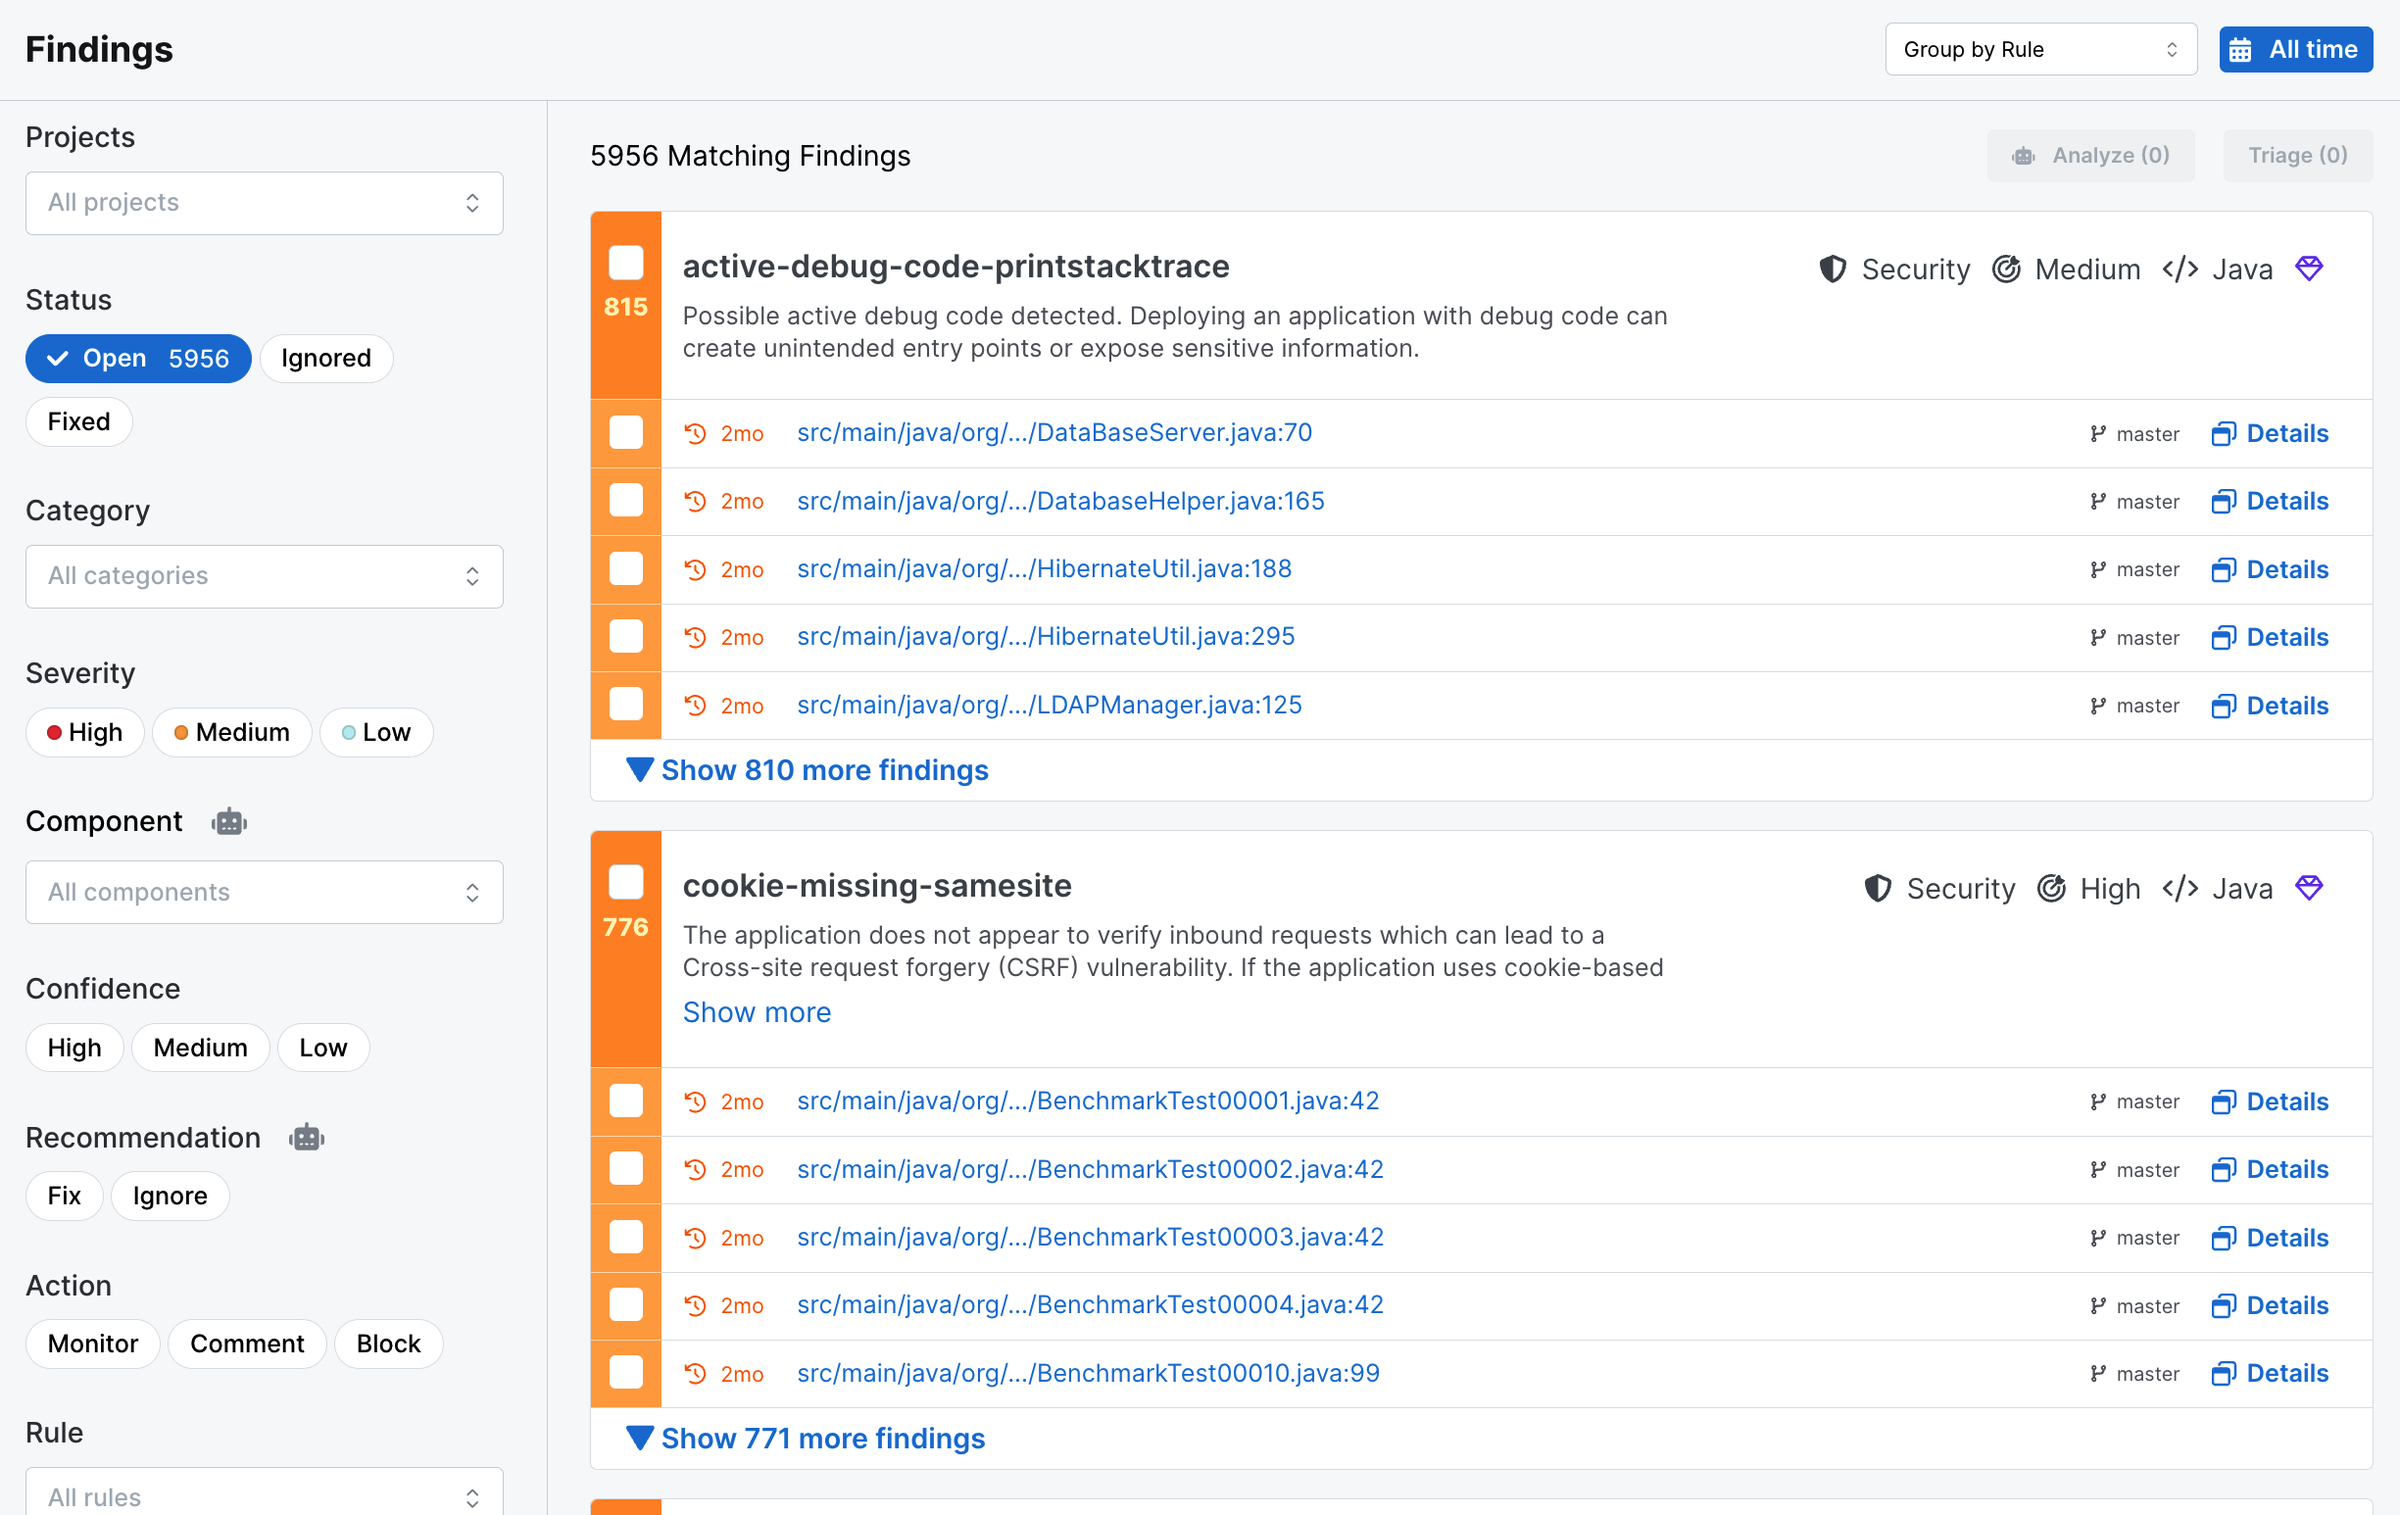
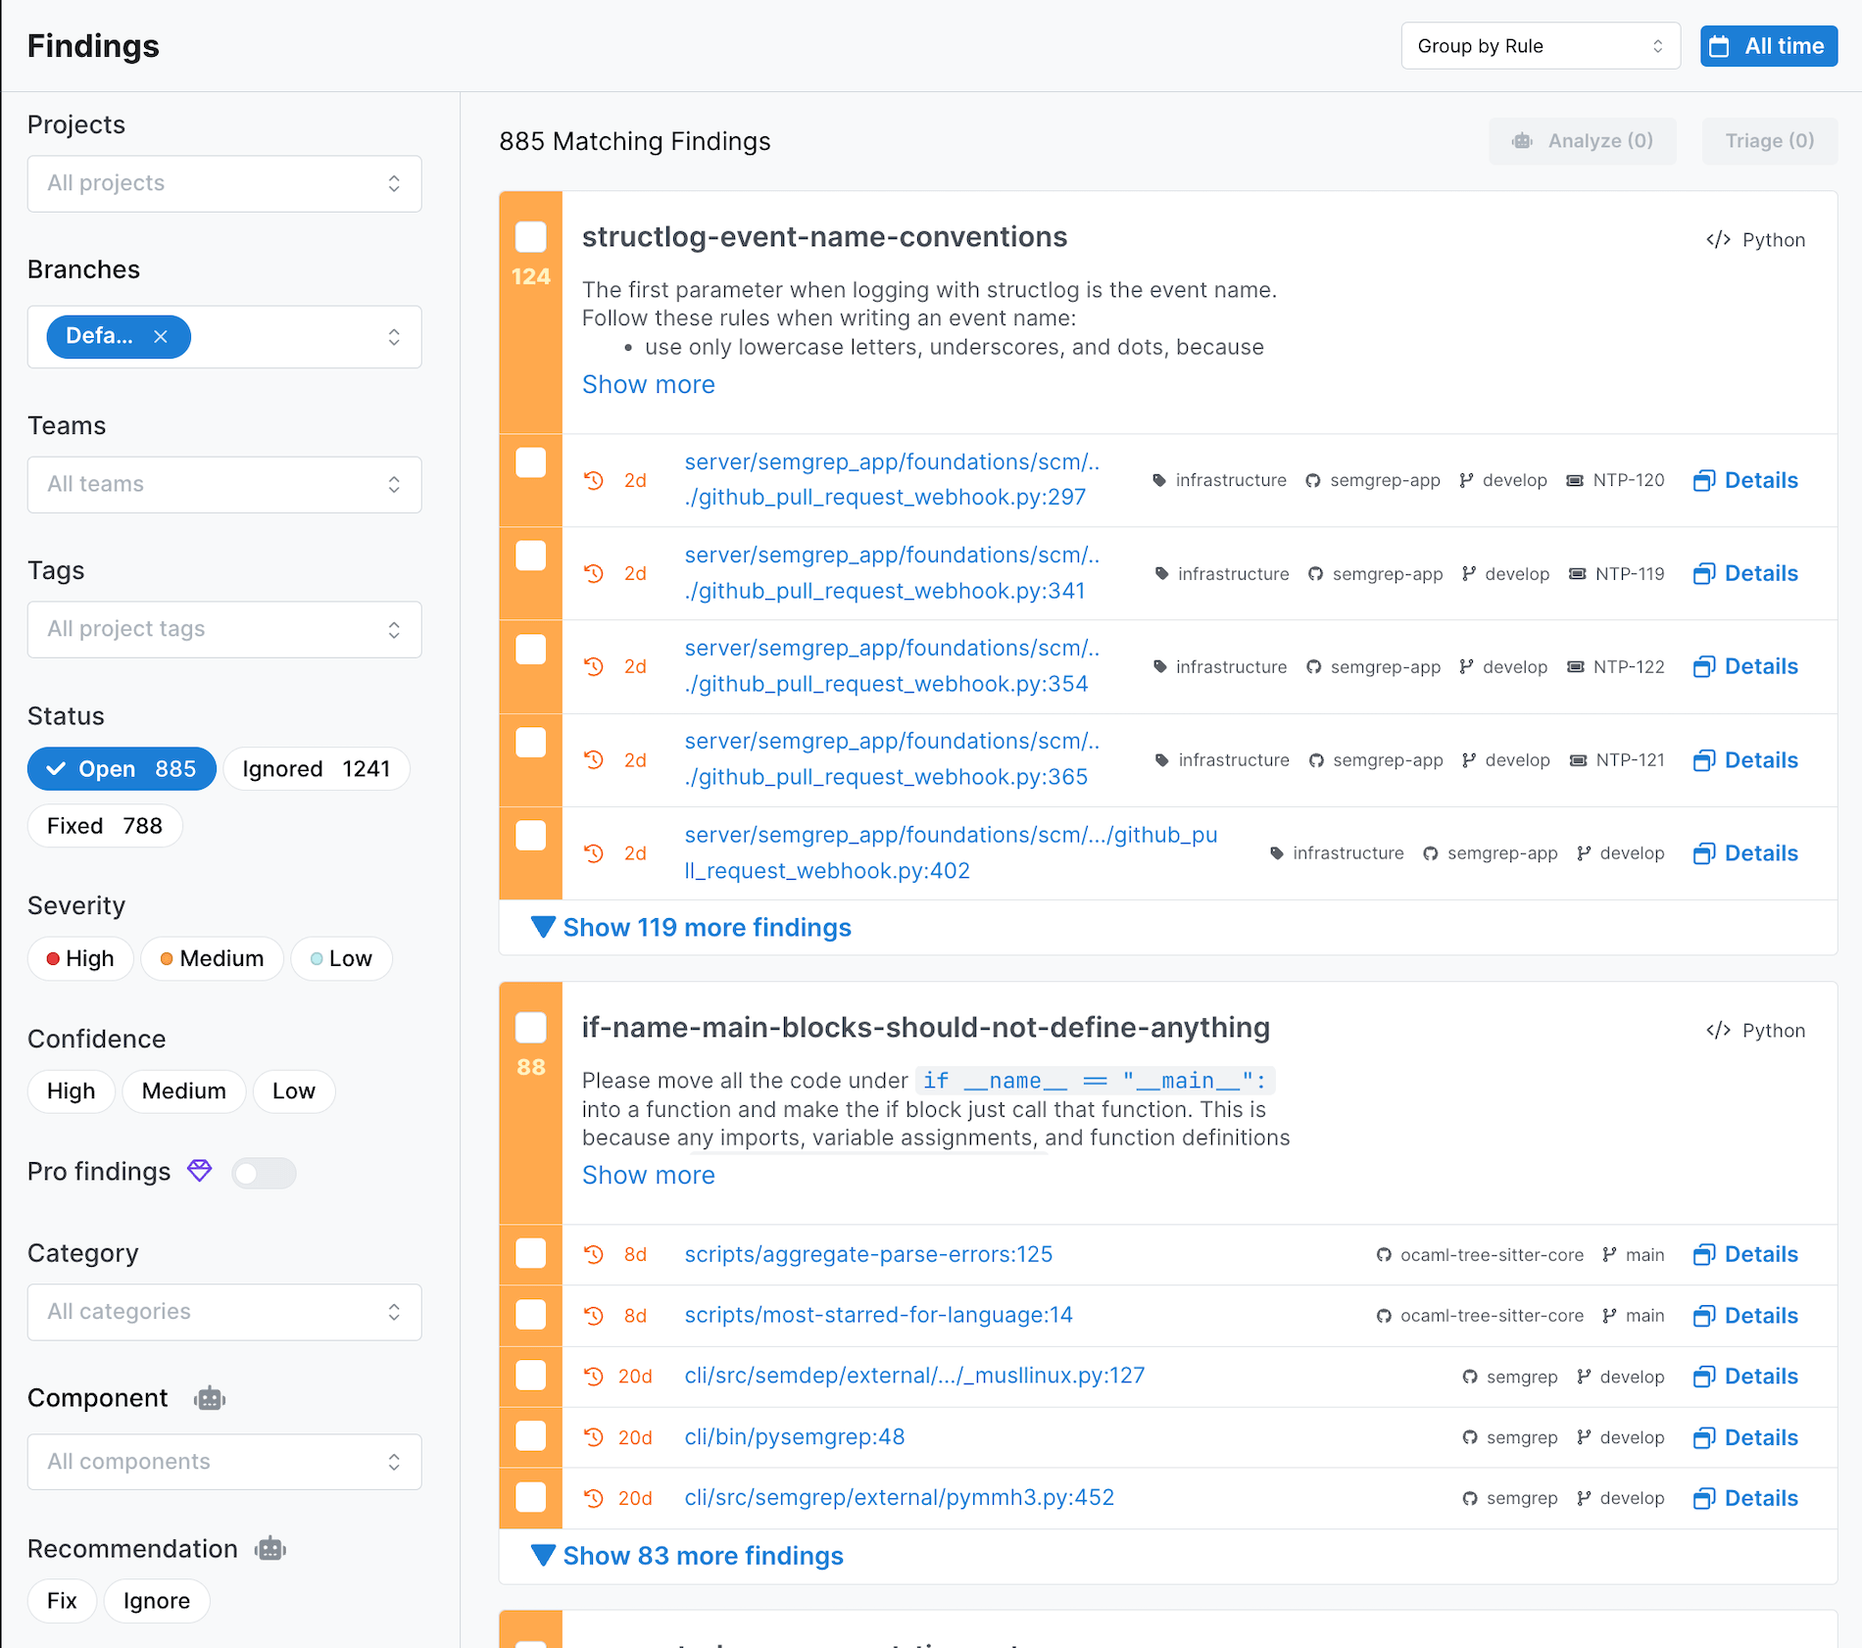
update Findings page

diff --git a/docs/semgrep-code/findings.md b/docs/semgrep-code/findings.md
@@ -62,16 +62,19 @@ Use filters to narrow down your results. The following criteria are available fo
 | Filter                 | Description  |
 | ---------------------  | ------------ |
 | **Projects**           | Filter by repositories connected to Semgrep Cloud Platform. |
+| **Branches**           | Filter by findings in different Git branches. |
+| **Teams**              | Filter for findings in projects to which the specified teams are associated with. Available only to organizations with RBAC enabled. |
+| **Tags**               | Filter for findings based on the tags associated with the project. |
 | **Status**             | Filter the triage state of a finding. Refer to the [following table](#triaging-findings) to understand triage states. |
-| **Category**           |  Filter by the type of security issue or vulnerability the rule detects, such as `security`, `correctness`, and `maintainability`. You can select more than one category at a time. See [Finding categories](#finding-categories) for information on how Semgrep categorizes your findings. |
 | **Severity**           | Filter by the severity of a finding. Severity is computed based on the values assigned for [Likelihood](/contributing/contributing-to-semgrep-rules-repository/#likelihood) and [Impact](/contributing/contributing-to-semgrep-rules-repository/#impact) by the rule's author. Possible values: <ul><li>Low</li><li>Medium</li><li>High</li></ul> |
-| **Component**          | Filter by Semgrep Assistant component tags. Semgrep Assistant uses GPT-4 to categorize a finding based on its function, such as payments, user authentication, and infrastructure. |
 | **Confidence**         | Filter by the likelihood of the rule to detect true positives. The higher the confidence, the more true positives the rule may detect. |
+| **Pro findings**       | Filter for findings identified using Semgrep Pro rules. |
+| **Category**           | Filter by the type of security issue or vulnerability the rule detects, such as `security`, `correctness`, and `maintainability`. You can select more than one category at a time. See [Finding categories](#finding-categories) for information on how Semgrep categorizes your findings. |
+| **Component**          | Filter by Semgrep Assistant component tags. Semgrep Assistant uses GPT-4 to categorize a finding based on its function, such as payments, user authentication, and infrastructure. |
 | **Recommendation**     | Filter by recommendation offered by Semgrep Assistant's auto-triage feature. Possible values: <ul><li>Fix</li><li>Ignore</li></ul> |
 | **Action**             | Filter by monitoring, commenting, or blocking rules in your Policies. |
 | **Rule**               | Filter by rules included in your Policies page. You can select more than one rule or ruleset for filtering. |
 | **Ruleset**            | Filter by the ruleset name where rules that match the code belong. More than one rule or ruleset can be selected for filtering. |
-| **Branch**             | Filter by findings in different Git branches. |
 
 #### Finding categories
 
